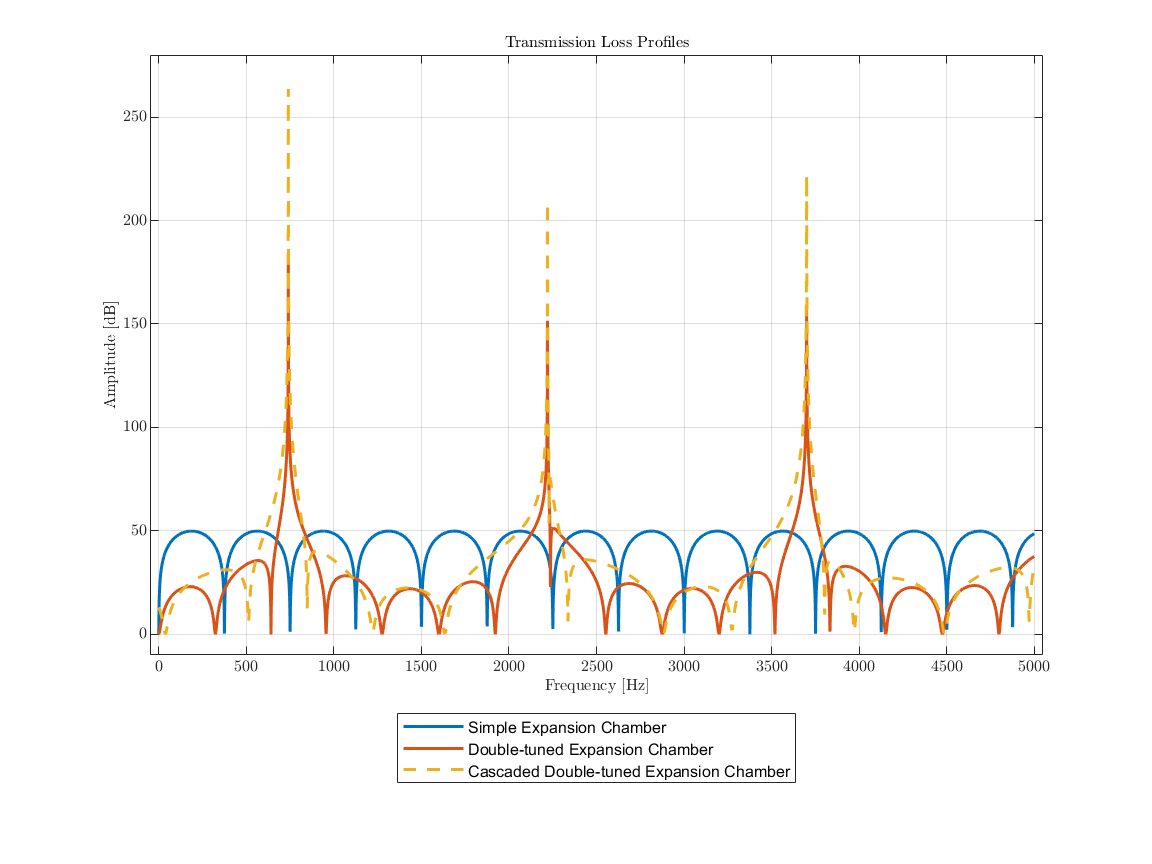
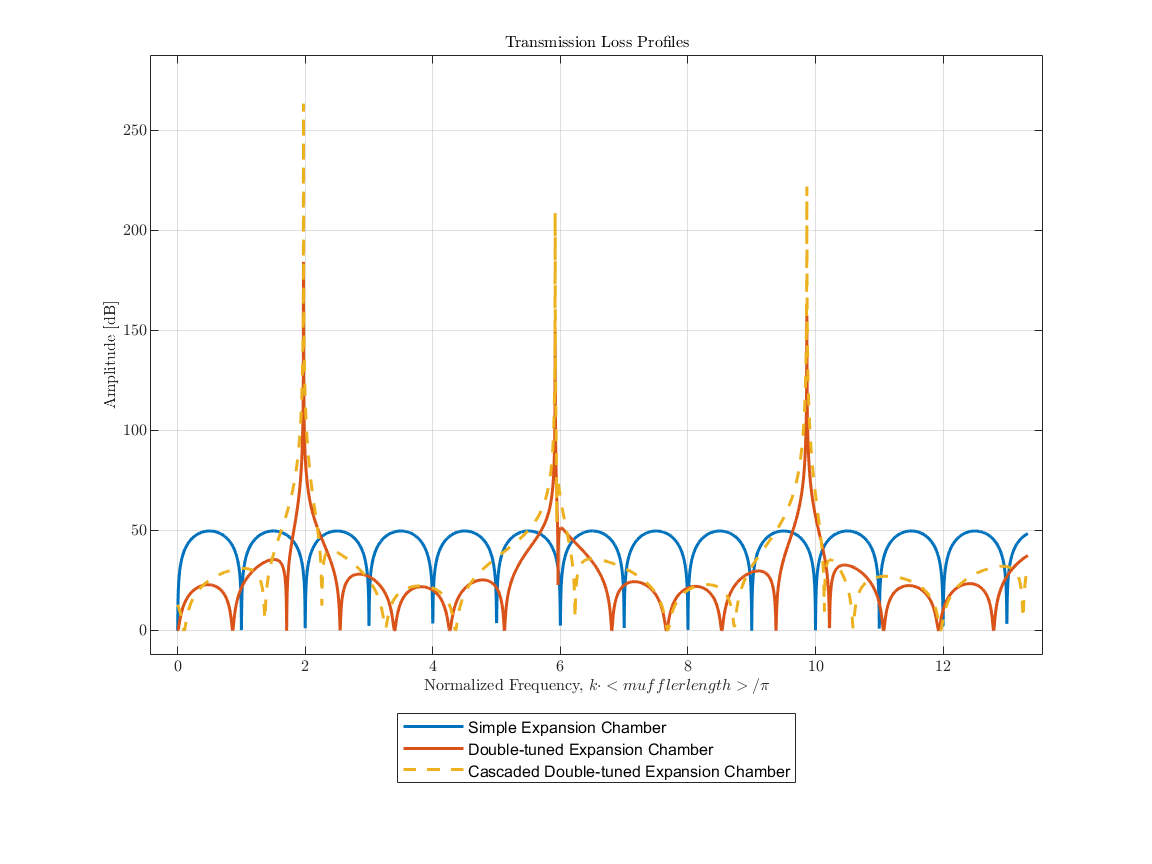
Incremental commit.

diff --git a/40 Assignments/01 Module 1 Assignment/ACS_547_Module_1_Question_2_Monday_January_27_2025.m b/40 Assignments/01 Module 1 Assignment/ACS_547_Module_1_Question_2_Monday_January_27_2025.m
@@ -314,26 +314,49 @@ figure( ); ...
 
 
 
-%% RMS and Cumulative Values
-
-clc;
-
-rms( TL_parta )
-rms( TL_partb )
-rms( TL_partc )
-
-temp = TL_partc;
-    temp( 195 < TL_partc ) = 195;
-        rms( temp )
+normalized_frequency_set = ( 2 * pi * frequency_set ./ c ) * 0.4572 / pi;
+% k = 2*pi*f/c;  % The wave number for the respective frequency.
 
 figure( ); ...
-    plot( cumtrapz( TL_parta ) );  hold on;
-    plot( cumtrapz( TL_partb ) );
-    plot( cumtrapz( TL_partc ) );  grid on;
+    plot( normalized_frequency_set, TL_parta );  hold on;
+    plot( normalized_frequency_set, TL_partb );
+    plot( normalized_frequency_set, TL_partc, 'LineStyle', '--' );  grid on;
+        legend( ...
+            'Simple Expansion Chamber', ...
+            'Double-tuned Expansion Chamber', ...
+            'Cascaded Double-tuned Expansion Chamber', ...
+            'Location', 'SouthOutside' );
+    xlabel( 'Normalized Frequency, $k \cdot <muffler length> / \pi$', 'Interpreter', 'latex' );  ylabel( 'Amplitude [dB]' );
+    title( 'Transmission Loss Profiles' );
+    %
+    Ax = gca;
+        Ax.XAxis.TickLabelInterpreter = 'latex';
+        Ax.YAxis.TickLabelInterpreter = 'latex';
+    %
+    % axis( [ -50  5e3+50  Y_LIMITS ] );
+    %
+    if ( PRINT_FIGURES == 1 )
+        exportgraphics( gcf, 'Figure TL All Profiles.pdf', 'Append', true );
+    end
 
 
 
+%% RMS and Cumulative Values
 
+% clc;
+% 
+% rms( TL_parta )
+% rms( TL_partb )
+% rms( TL_partc )
+% 
+% temp = TL_partc;
+%     temp( 195 < TL_partc ) = 195;
+%         rms( temp )
+% 
+% figure( ); ...
+%     plot( cumtrapz( TL_parta ) );  hold on;
+%     plot( cumtrapz( TL_partb ) );
+%     plot( cumtrapz( TL_partc ) );  grid on;
 
 
 
